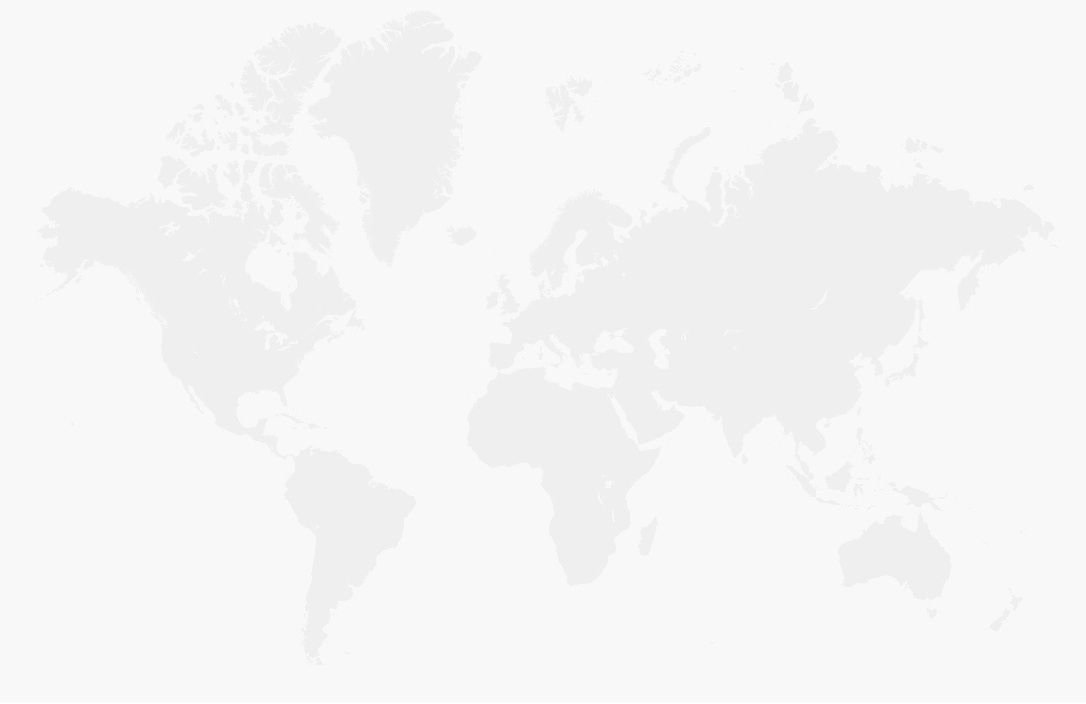
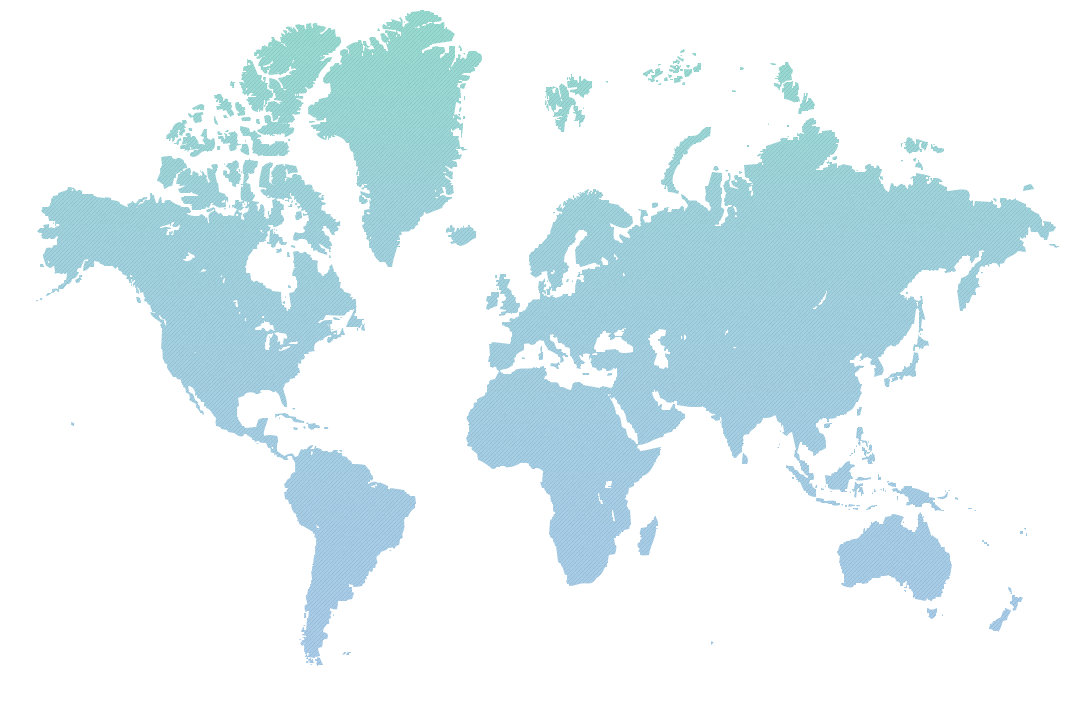
[feature/visual-adjust-paula]Visual Update

diff --git a/src/assets/css/ide.css b/src/assets/css/ide.css
@@ -511,7 +511,7 @@ a {
 }
 
 #tab-bar li.active {
-	background-color: #e9e9e9;
+	background-color: #E8E6E7;
 	box-shadow: inset 0 1px #fff;
 }
 
@@ -541,12 +541,9 @@ a {
 /* Main Content */
 .main-content {
 	display: none;
-	background: #e9e9e9;
+	background: #E8E6E7;
 	height: 100%;
 	width: 100%;
-	/*overflow: hidden;*/
-	/*position: absolute;*/
-	/*top: 0;*/
 }
 
 .main-content.active {
@@ -734,7 +731,7 @@ a {
 #dashboard-map {
 	background: url("../images/ide/world.jpg") center 80% no-repeat;
 	background-size: auto 480px;
-	background-color: #f8f8f8;
+	background-color: #EFF8FD;
 	min-height: 360px;
 	border-right: 1px solid #ccc;
 	overflow: hidden;
@@ -765,7 +762,8 @@ a {
 }
 
 .icon-map-spot {
-	border-radius: 5px;
+	border-radius: 50%;
+	border: 1px solid #fff;
 	width: 10px;
 	height: 10px;
 	background: #FF8B00;
@@ -862,7 +860,7 @@ a {
 }
 
 #us-east-1 .map-tooltip {
-	left: 90px;
+	left: 83px;
 	top: -10px;
 }
 
@@ -873,7 +871,7 @@ a {
 
 #us-west-1 .map-tooltip {
 	top: 20px;
-	left: -71px;
+	left: -66px;
 }
 
 #us-west-2 {
@@ -883,7 +881,7 @@ a {
 
 #us-west-2 .map-tooltip {
 	top: -42px;
-	left: -71px;
+	left: -66px;
 }
 
 #eu-west-1 {
@@ -893,7 +891,7 @@ a {
 
 #eu-west-1 .map-tooltip {
 	top: -42px;
-	left: -71px;
+	left: -66px;
 }
 
 #sa-east-1 {
@@ -911,7 +909,7 @@ a {
 #ap-southeast-2 .map-tooltip,
 #ap-northeast-1 .map-tooltip {
 	top: -41px;
-	left: -71px;
+	left: -66px;
 }
 
 #ap-southeast-2 {

diff --git a/src/assets/css/login.css b/src/assets/css/login.css
@@ -10,6 +10,12 @@ body {
 	/*background-size: cover;*/
 	color: #eee;
 	text-shadow: 0px 1px 1px rgba(20,20,20,0.50);
+	background-image: -o-linear-gradient(89deg, #9D64AE 0%, #CB89B8 55%, #EA88B2 100%);
+	background-image: -moz-linear-gradient(89deg, #9D64AE 0%, #CB89B8 55%, #EA88B2 100%);
+	background-image: -webkit-linear-gradient(89deg, #9D64AE 0%, #CB89B8 55%, #EA88B2 100%);
+	background-image: -ms-linear-gradient(89deg, #9D64AE 0%, #CB89B8 55%, #EA88B2 100%);
+	background-image: linear-gradient(-1deg, #9D64AE 0%, #CB89B8 55%, #EA88B2 100%);
+
 }
 
 a {
@@ -59,8 +65,8 @@ header {
 	width: 370px;
 	padding: 20px;
 	border-radius: 4px;
-	background: #666;
-	border: 1px solid #2F2F2F;
+	background: rgba(100,100,100,.5);
+	border: 1px solid #575257;
 	-moz-box-shadow:    0px 2px 4px 0px rgba(0,0,0,0.30), inset 0px 1px 0px 0px rgba(255,255,255,0.20);
 	-webkit-box-shadow: 0px 2px 4px 0px rgba(0,0,0,0.30), inset 0px 1px 0px 0px rgba(255,255,255,0.20);
 	box-shadow:         0px 2px 4px 0px rgba(0,0,0,0.30), inset 0px 1px 0px 0px rgba(255,255,255,0.20);

diff --git a/src/assets/css/canvas.css b/src/assets/css/canvas.css
@@ -168,7 +168,9 @@
 /* highlight connnectable*/
 .connectable-port {
 	display: inline;
-	fill: red;
+	fill: #fff;
+	stroke: #6DAEFE;
+	stroke-width: 2;
 }
 
 /* highlight connnectable node */
